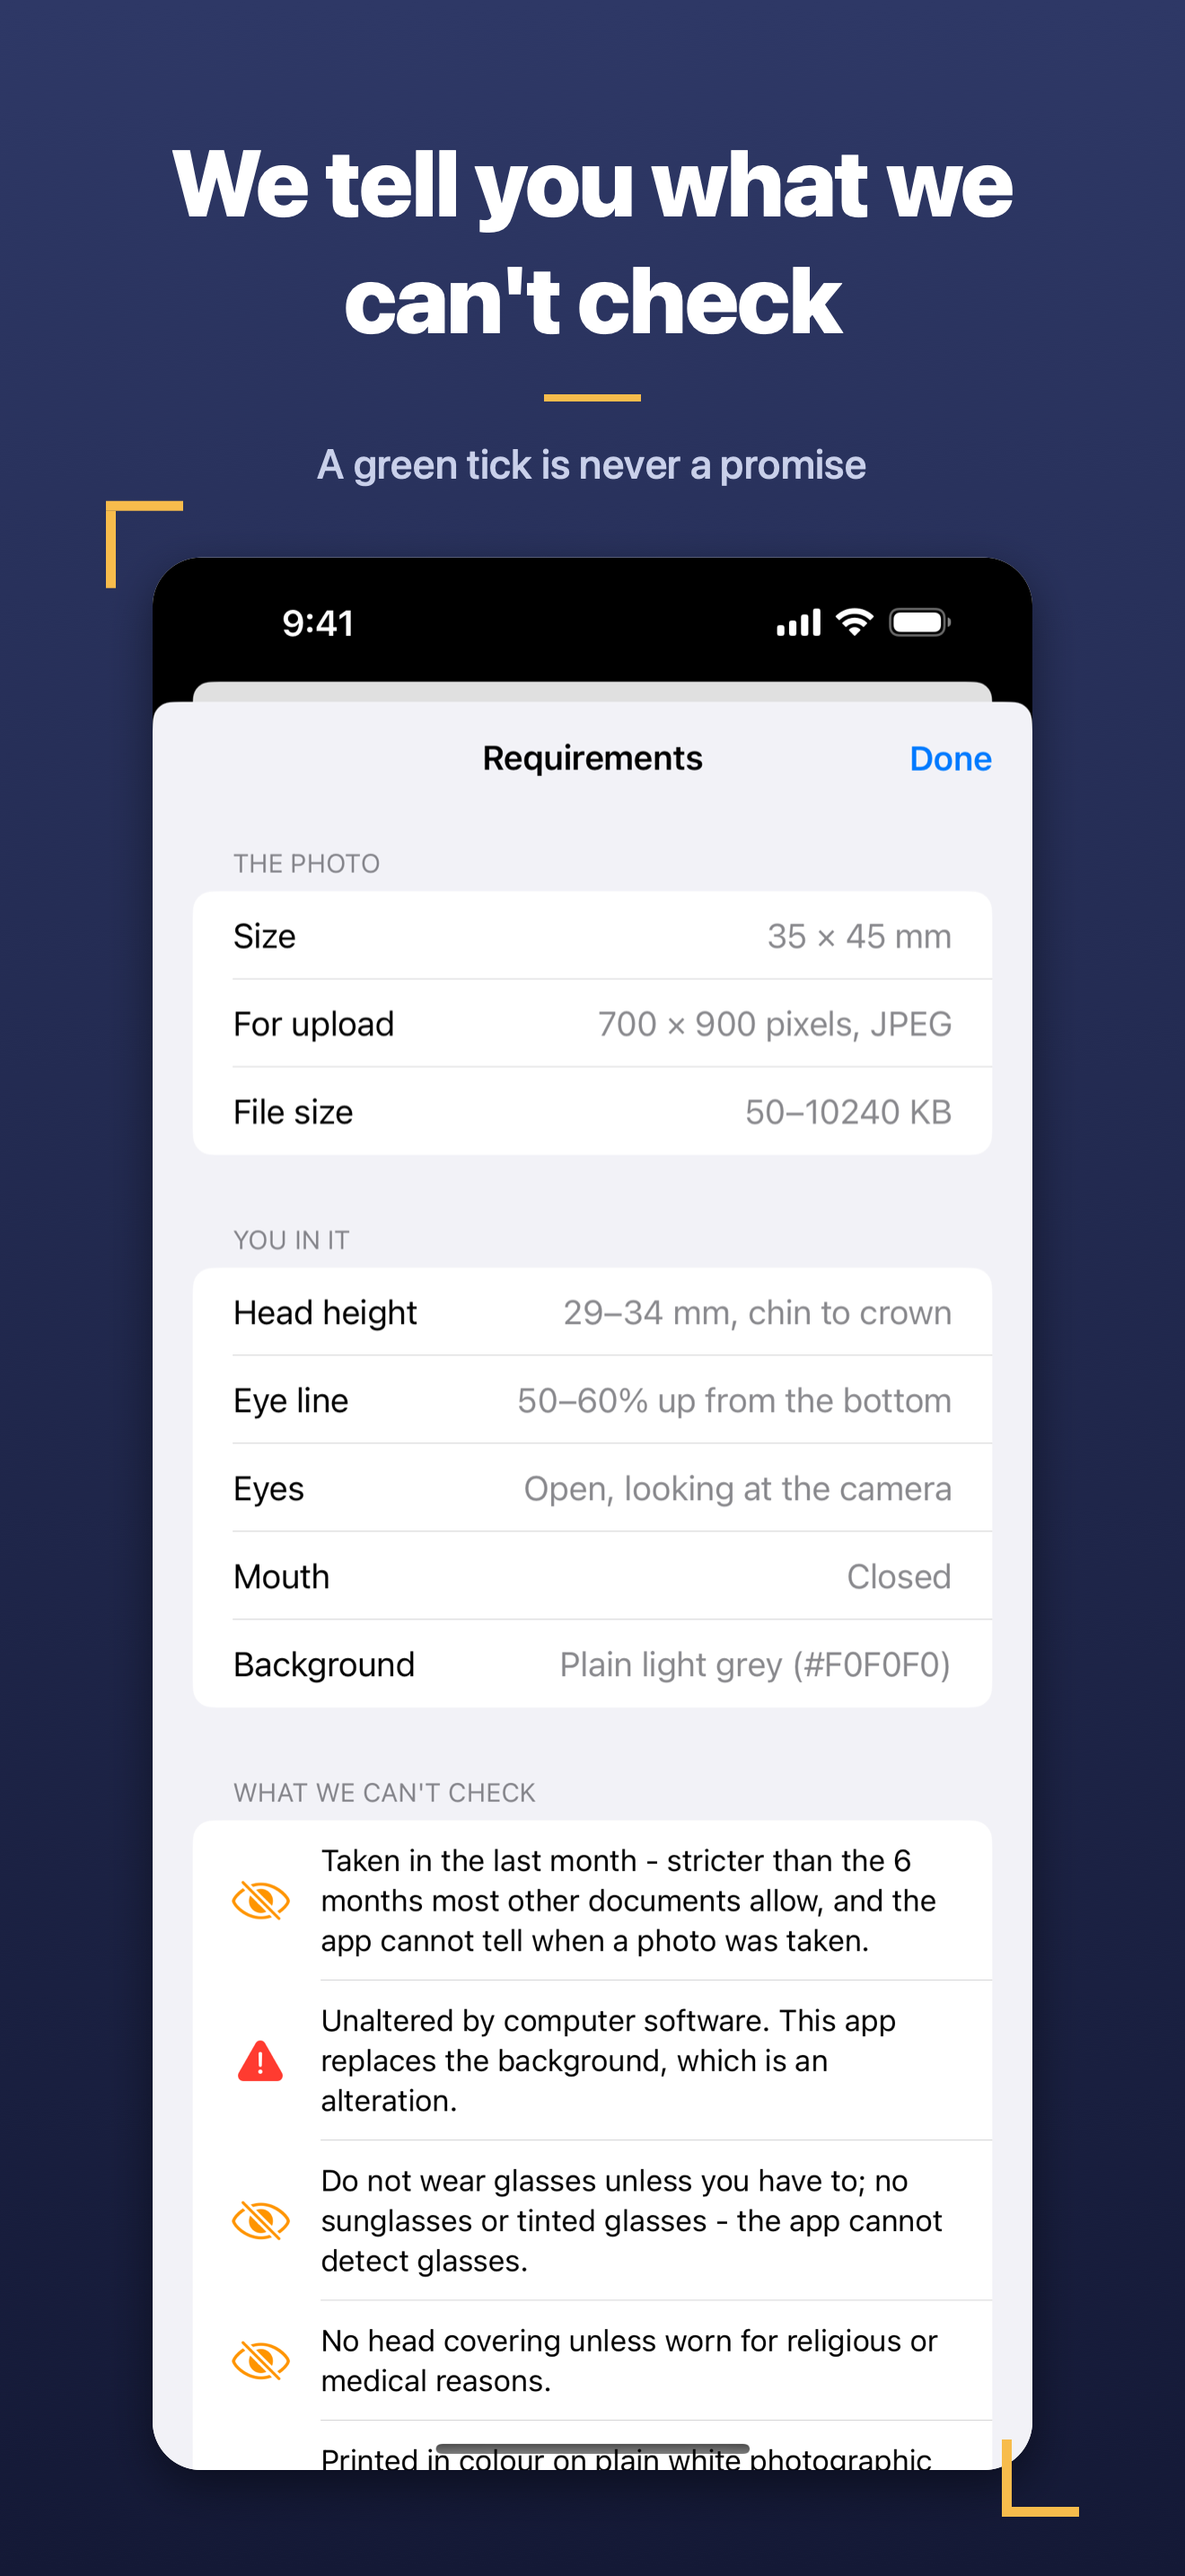
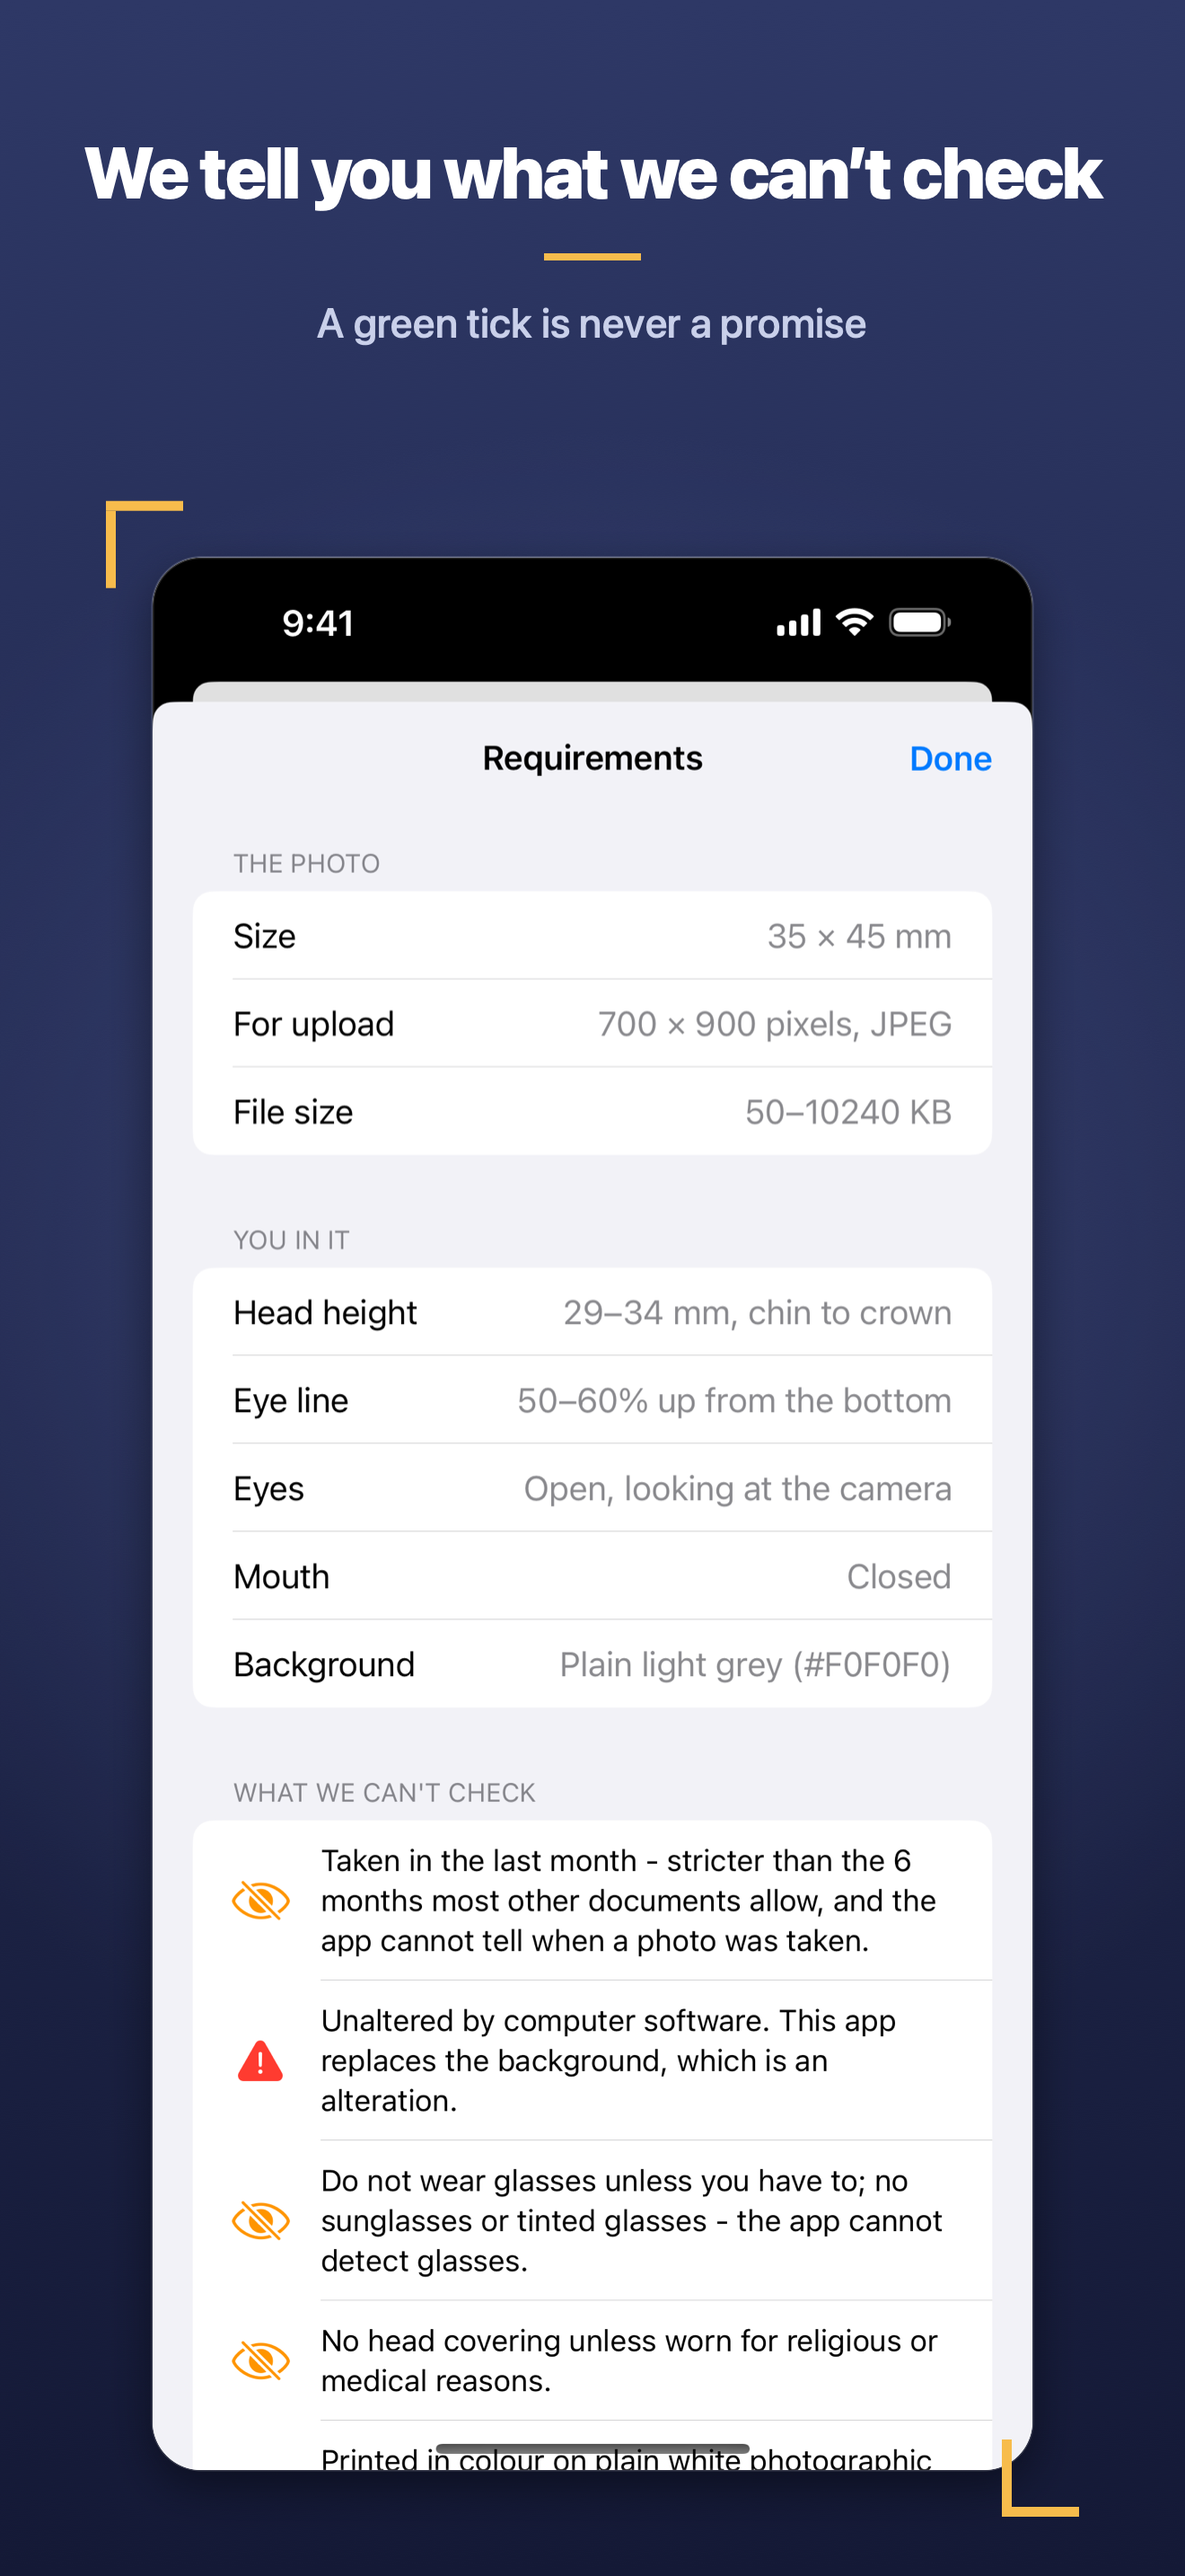
Polish the screenshots, and stop hardcoding a country count
Headlines now auto-fit: "Canada won't take an edited photo" sat awkwardly
across two lines and now shrinks to fit one. Proper apostrophes rather than
ASCII ones. A soft radial glow behind the device gives the flat navy some
depth, and a hairline edge stops the white capture bleeding into it.

"Eight countries, one tap" becomes "Several countries, one tap", and the
description says "several countries, with more added over time" before
listing today's. A count in the copy goes stale the moment one is added, and
the description needs a new build to change.

docs/store is now self-contained: a README indexing the lot, the upload
order and why, how to regenerate after a UI change, and what is still
blocking submission. It also sets out how to capture the one screenshot that
cannot be made here, the result screen, since Vision does not run in the
Simulator.

Changed region(s): [[0.0621, 0.031, 0.9318, 0.1862]]

diff --git a/tools/store-shot.swift b/tools/store-shot.swift
@@ -40,6 +40,33 @@ let gradient = CGGradient(colorsSpace: CGColorSpace(name: CGColorSpace.sRGB)!,
 ctx.drawLinearGradient(gradient, start: CGPoint(x: 0, y: H), end: CGPoint(x: 0, y: 0), options: [])
 
 // Text is drawn with CoreText in native CG coordinates, so no flipping games.
+func measure(_ text: String, size: CGFloat, weight: NSFont.Weight,
+             tracking: CGFloat) -> CGSize {
+    let para = NSMutableParagraphStyle()
+    para.alignment = .center
+    para.lineHeightMultiple = 1.06
+    let attributed = NSAttributedString(string: text, attributes: [
+        .font: NSFont.systemFont(ofSize: size, weight: weight),
+        .paragraphStyle: para, .kern: tracking,
+    ])
+    let setter = CTFramesetterCreateWithAttributedString(attributed)
+    return CTFramesetterSuggestFrameSizeWithConstraints(
+        setter, CFRange(location: 0, length: 0), nil,
+        CGSize(width: W - 180, height: .greatestFiniteMagnitude), nil)
+}
+
+/// Largest size at or below `size` that keeps the headline within `maxLines`.
+func fittedSize(_ text: String, from size: CGFloat, weight: NSFont.Weight,
+                tracking: CGFloat, maxLines: Int) -> CGFloat {
+    var candidate = size
+    while candidate > 58 {
+        let h = measure(text, size: candidate, weight: weight, tracking: tracking).height
+        if h <= candidate * 1.14 * CGFloat(maxLines) + 6 { return candidate }
+        candidate -= 4
+    }
+    return candidate
+}
+
 func draw(_ text: String, size: CGFloat, weight: NSFont.Weight, colour: CGColor,
           topY: CGFloat, height: CGFloat, tracking: CGFloat = -1.5) -> CGFloat {
     let para = NSMutableParagraphStyle()
@@ -62,17 +89,19 @@ func draw(_ text: String, size: CGFloat, weight: NSFont.Weight, colour: CGColor,
 }
 
 // Headline block, then an amber rule, then the subline.
-let headlineTop = 132.0
-let headlineHeight = draw(headline, size: 104, weight: .heavy, colour: rgb(0xFFFFFF),
-                          topY: headlineTop, height: 400)
+let headlineTop = 138.0
+let headlineSize = fittedSize(headline, from: 108, weight: .heavy, tracking: -2, maxLines: 2)
+let headlineHeight = draw(headline, size: headlineSize, weight: .heavy, colour: rgb(0xFFFFFF),
+                          topY: headlineTop, height: 420, tracking: -2)
 
-let ruleY = headlineTop + headlineHeight + 46
+let ruleY = headlineTop + headlineHeight + 44
 ctx.setFillColor(amber)
 ctx.fill(CGRect(x: W / 2 - 54, y: H - ruleY - 8, width: 108, height: 8))
 
-let sublineTop = ruleY + 46
-_ = draw(subline, size: 46, weight: .medium, colour: rgb(0xC9D0EA), topY: sublineTop,
-         height: 200, tracking: 0)
+if !subline.isEmpty {
+    _ = draw(subline, size: 46, weight: .medium, colour: rgb(0xC9D0EA), topY: ruleY + 46,
+             height: 200, tracking: 0)
+}
 
 // The capture, inset with rounded corners and a soft shadow.
 let shotWidth = 980.0
@@ -82,6 +111,14 @@ let shotX = (W - shotWidth) / 2
 let shotY = 118.0                      // from the bottom
 let rect = CGRect(x: shotX, y: shotY, width: shotWidth, height: shotHeight)
 let rounded = CGPath(roundedRect: rect, cornerWidth: 54, cornerHeight: 54, transform: nil)
+
+let glow = CGGradient(colorsSpace: CGColorSpace(name: CGColorSpace.sRGB)!,
+                      colors: [rgb(0x6E7CC4, 0.30), rgb(0x6E7CC4, 0)] as CFArray,
+                      locations: [0, 1])!
+ctx.drawRadialGradient(glow, startCenter: CGPoint(x: W / 2, y: shotY + shotHeight * 0.62),
+                       startRadius: 0,
+                       endCenter: CGPoint(x: W / 2, y: shotY + shotHeight * 0.62),
+                       endRadius: W * 0.72, options: [])
 
 ctx.saveGState()
 ctx.setShadow(offset: CGSize(width: 0, height: -18), blur: 54, color: rgb(0x000000, 0.45))
@@ -94,6 +131,13 @@ ctx.saveGState()
 ctx.addPath(rounded)
 ctx.clip()
 ctx.draw(shot, in: rect)
+ctx.restoreGState()
+
+ctx.saveGState()
+ctx.addPath(rounded)
+ctx.setStrokeColor(rgb(0xFFFFFF, 0.16))
+ctx.setLineWidth(3)
+ctx.strokePath()
 ctx.restoreGState()
 
 // The icon's crop marks, framing the phone the way they frame the portrait.

diff --git a/docs/store/README.md b/docs/store/README.md
@@ -1,0 +1,74 @@
+# App Store material
+
+Everything needed for the listing, in one place. Nothing here is submitted automatically.
+
+```
+store/
+  README.md        this file
+  LISTING.md       name, subtitle, description, keywords, review notes
+  PRIVACY.md       privacy policy, ready to host
+  marketing/       finished screenshots to upload  (1320 x 2868)
+  screenshots/     the raw simulator captures they are built from
+```
+
+## Upload these five
+
+`marketing/` in numbered order. The first two are what people see in search results, so they
+carry the two claims that matter: exact sizing, and honesty about what cannot be checked.
+
+| File | Headline |
+|---|---|
+| `01-exact-size.png` | Cut to the exact size |
+| `02-cant-check.png` | We tell you what we can't check |
+| `03-how-to-print.png` | Then we show you how to print |
+| `04-countries.png` | Several countries, one tap |
+| `05-unedited.png` | Canada won't take an edited photo |
+
+1320 x 2868 is the 6.9 inch size. Apple scales it down for smaller devices, so this one set
+covers every iPhone.
+
+## The one that is missing
+
+The result screen, with a real finished photo on it. Vision does not run in the Simulator, so it
+can only be captured on a device. It is the most persuasive image the app has and it is worth
+getting during testing.
+
+To capture it: run on your iPhone, put it through a photo, and screenshot the result screen.
+Send me the PNG and I will composite it the same way. Suggested caption:
+
+> **Your photo, measured** / Head height, eye line and background, all checked
+
+Two notes. A screenshot of a stranger needs their permission, so use your own face or someone
+who has agreed. And set the status bar to 9:41 first if you want it to match the others:
+
+```bash
+xcrun simctl status_bar booted override --time "9:41" --batteryState charged --batteryLevel 100
+```
+
+That only works on the Simulator. On a device, just crop or accept the real status bar.
+
+## Regenerating
+
+The screenshots are generated, not drawn, by `tools/store-shot.swift`. After a UI change,
+recapture with the Simulator and re-run it:
+
+```bash
+xcrun swiftc -O tools/store-shot.swift -o /tmp/store-shot
+/tmp/store-shot raw.png out.png "Headline" "Subline"
+```
+
+The palette comes from the app icon: navy #2E3866 to #141936, amber #F7BC4C, and the icon's own
+crop marks framing the device. Headlines auto-fit so a long one shrinks to fit two lines rather
+than wrapping badly.
+
+## Before you can submit
+
+- [ ] Reserve the name in App Store Connect. "Exact ID Photo" is the choice; see LISTING.md for
+      why, and for two fallbacks. Search cannot prove a name is free, only App Store Connect can.
+- [ ] Host PRIVACY.md somewhere public and put the URL in App Store Connect
+- [ ] A support URL, which can be the same page
+- [ ] Test on a device, see docs/DEVICE-CHECKLIST.md
+- [ ] Capture the result screenshot above
+
+Already done: privacy manifest, export compliance, usage strings, icon, launch screen, and the
+App Privacy answer, which is "no data collected" and was verified rather than assumed.

diff --git a/docs/store/LISTING.md b/docs/store/LISTING.md
@@ -24,16 +24,20 @@ instant. Have a second choice ready:
 
 ## Subtitle (30 characters)
 
-**Passport and visa, on device** (29)
+**Passport and visa, sized exactly** (33 - too long, see below)
 
-Alternatives:
-- Passport photos that measure up (30)
-- Cut to size, on your iPhone (27)
+Use one of these instead, all within 30:
+- **Passport and visa, on device** (29)
+- **Cut to the exact size** (21)
+- **Passport photos that measure up** (30)
 
 ## Promotional text (170 characters)
 
 Turn a photo you already have into a passport or visa photo cut to the exact size your country
 asks for. Nothing is uploaded. No account, no subscription.
+
+(Avoid naming a country count here. It goes stale the moment one is added, and promotional text
+is one of the few fields you can change without submitting a new build.)
 
 ## Description
 
@@ -60,8 +64,8 @@ WHAT IT DOES
 
 DOCUMENTS
 
-Australia, Canada, China, India, Russia, Schengen Area, United Kingdom, United States.
-Passports and visas.
+Passports and visas for several countries, with more added over time. Today: Australia, Canada,
+China, India, Russia, the Schengen Area, the United Kingdom and the United States.
 
 FOR COUNTRIES THAT DO NOT ACCEPT EDITED PHOTOS
 
